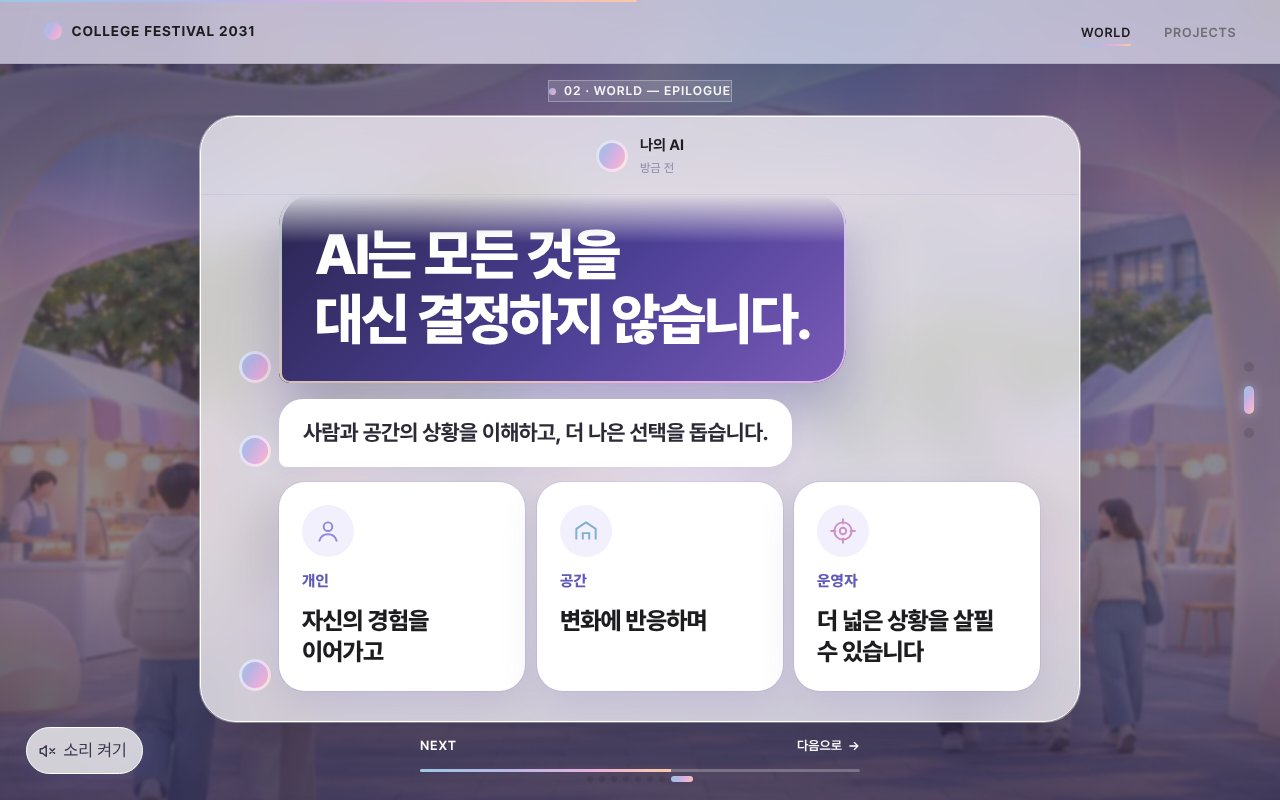
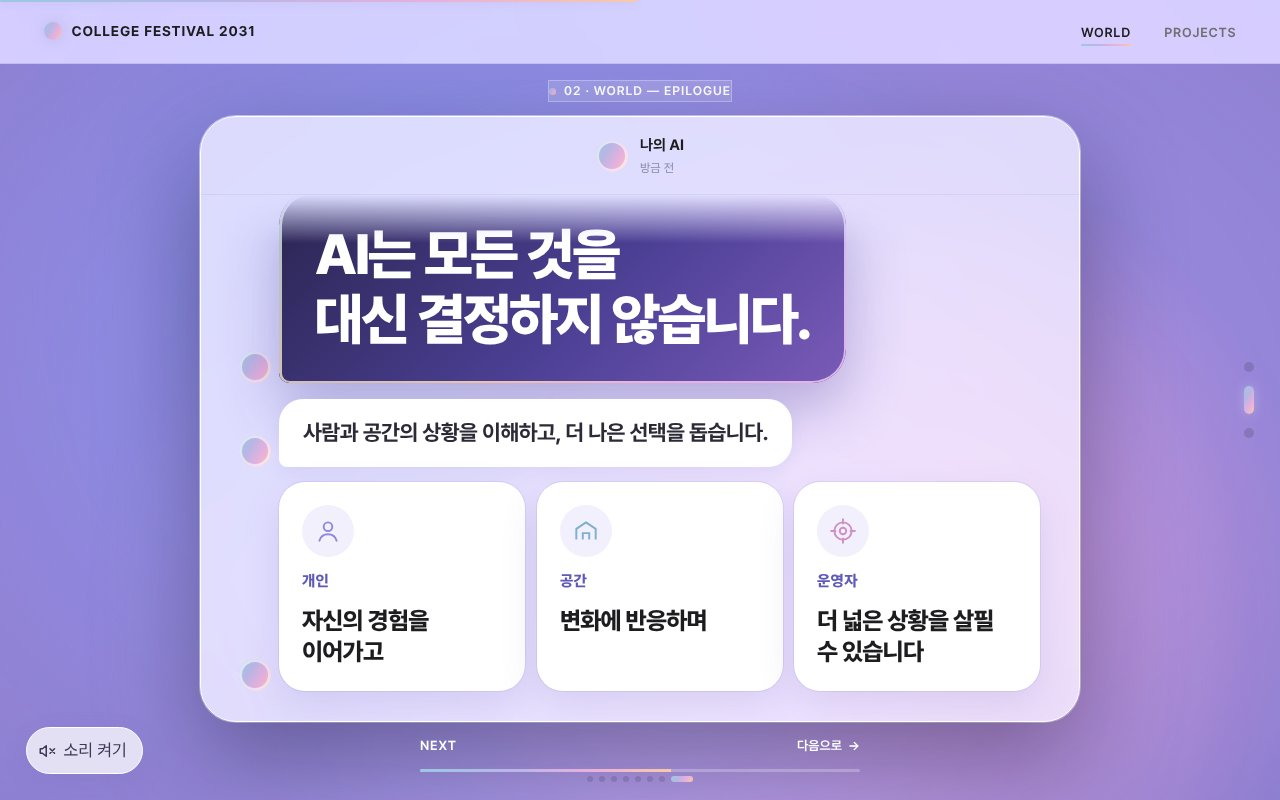
에필로그 배경을 이미지 대신 흐르는 파스텔 그라데이션으로 변경 (대화·선택에 따라 색 전환)
Claude-Session: https://claude.ai/code/session_01MVD1fmE3ZHHAawXfDg3rwx

diff --git a/assets/css/style.css b/assets/css/style.css
@@ -1037,16 +1037,21 @@ body:has(#detail.open) .snd-btn{opacity:0;pointer-events:none}
 @media (prefers-reduced-motion:reduce){.ec-wave.on i{animation:none}}
 
 /* ---- EPILOGUE v3: chat floats over the festival scene (continues from WORLD) ---- */
-#world-c .stage{background:#1a1730}
+#world-c .stage{background:#C9C3F2}
 .ec-bg{position:absolute;inset:0;z-index:0;overflow:hidden;pointer-events:none}
 .ec-bg .eb{position:absolute;inset:0;opacity:0;transition:opacity 1.4s var(--ease)}
 .ec-bg .eb.on{opacity:1}
-.ec-bg .eb .world-art{position:absolute;inset:0;width:100%;height:100%;object-fit:cover;transform-origin:var(--o);transform:scale(1.06);filter:blur(2.5px) saturate(1.08);
-  transition:transform 6s cubic-bezier(.2,.7,.2,1),filter 2s var(--ease)}
-.ec-bg .eb.on .world-art{transform:scale(var(--z))}
-.ec-bg .eb:nth-child(n+3).on .world-art{filter:blur(1px) saturate(1.12)}
+.ec-bg .eb{background:var(--bg)}
+.ec-bg .eb i{position:absolute;width:85vmax;height:85vmax;border-radius:50%;opacity:.95;will-change:transform}
+.ec-bg .eb i:nth-child(1){left:-30vmax;top:-35vmax;background:radial-gradient(circle,var(--c1) 0%,transparent 64%);animation:ebA 19s ease-in-out infinite alternate}
+.ec-bg .eb i:nth-child(2){right:-32vmax;top:-20vmax;background:radial-gradient(circle,var(--c2) 0%,transparent 64%);animation:ebB 23s ease-in-out infinite alternate}
+.ec-bg .eb i:nth-child(3){left:-6vmax;bottom:-50vmax;background:radial-gradient(circle,var(--c3) 0%,transparent 64%);animation:ebC 21s ease-in-out infinite alternate}
+@keyframes ebA{to{transform:translate(22vmax,18vmax) scale(1.15)}}
+@keyframes ebB{to{transform:translate(-20vmax,24vmax) scale(.9)}}
+@keyframes ebC{to{transform:translate(16vmax,-20vmax) scale(1.2)}}
+@media (prefers-reduced-motion:reduce){.ec-bg .eb i{animation:none}}
 .ec-bg::after{content:"";position:absolute;inset:0;pointer-events:none;
-  background:radial-gradient(70% 70% at 50% 55%,rgba(36,28,80,.12),rgba(26,20,60,.5) 100%),linear-gradient(180deg,rgba(26,20,60,.35),rgba(26,20,60,0) 28%,rgba(26,20,60,0) 72%,rgba(26,20,60,.4))}
+  background:radial-gradient(80% 80% at 50% 50%,rgba(255,255,255,0) 50%,rgba(40,30,90,.16) 100%)}
 #world-c .ec{z-index:2}
 #world-c #ecLabel{color:#fff;background:rgba(255,255,255,.14);border:1px solid rgba(255,255,255,.3);-webkit-backdrop-filter:blur(10px);backdrop-filter:blur(10px)}
 #world-c .ec-phone{background:rgba(255,255,255,.7);-webkit-backdrop-filter:blur(22px) saturate(1.3);backdrop-filter:blur(22px) saturate(1.3);box-shadow:0 40px 100px rgba(14,10,40,.4),0 0 0 1px rgba(255,255,255,.55)}

diff --git a/assets/js/main.js b/assets/js/main.js
@@ -144,9 +144,10 @@ h1.querySelectorAll('.ch').forEach(s=>s.setAttribute('aria-hidden','true'));
 $('#portalScene').innerHTML=WORLD_ART[0];
 $('#wcScene').innerHTML=WORLD_ART[5];
 // epilogue backdrop: continues from WORLD CH.04 → evening festival → the place the person picks
-const EC_BG=[[4,'50% 50%',1.04],[5,'50% 45%',1.06],[2,'38% 66%',1.32],[0,'50% 58%',1.42],[4,'62% 46%',1.26]];
-$('#ecBg').innerHTML=EC_BG.map(([a,o,z])=>`<div class="eb" style="--o:${o};--z:${z}">${WORLD_ART[a]}</div>`).join('');
-$$('#ecBg .world-art').forEach(im=>{im.alt=''});
+const EC_BG=[ // [base, blob1, blob2, blob3] — start → evening → the picked place (쉼터 · 무대 · 푸드 트럭)
+  ['#C9C3F2','#A9C9F0','#E9B8E0','#D9D4FF'],['#9C8FDB','#7E8BE0','#E59AC8','#F6BFA6'],
+  ['#BFD9E6','#A6DCCB','#C9C2FA','#EFE0FF'],['#8A78D8','#6F7FE6','#E688C7','#B8A0F5'],['#E9C2D6','#F5BE9E','#EC9FC4','#C8B6F4']];
+$('#ecBg').innerHTML=EC_BG.map(c=>`<div class="eb" style="--bg:${c[0]};--c1:${c[1]};--c2:${c[2]};--c3:${c[3]}"><i></i><i></i><i></i></div>`).join('');
 
 const intro={el:$('#intro'),p:0,t:0};
 const iTitle=$('#introTitle'),veil=$('#veil'),hint=$('#scrollHint'),introStage=$('#intro .stage');
@@ -239,7 +240,7 @@ function tickWorld(now){
   // full-bleed cinematic background: grows out of the front card, then wipes chapter to chapter
   {const r=waDeck.getBoundingClientRect(), gi=1-g, rad=30*gi;
    const ins=`inset(${(r.top*gi).toFixed(1)}px ${((VW-r.right)*gi).toFixed(1)}px ${((VH-r.bottom)*gi).toFixed(1)}px ${(r.left*gi).toFixed(1)}px round ${rad.toFixed(1)}px)`;
-   waBg.style.clipPath=g>=1?'none':ins; waBg.style.opacity=(g>0?1:0);
+   waBg.style.clipPath=g>=1?'none':ins; waBg.style.opacity=(g>0?1:0)*(1-ex);
    worldA.el.classList.toggle('wa-cine',g>.35);
    waBis.forEach((b,k)=>{const d=s-k;
      if(d<=-1||d>=1.6){b.style.visibility='hidden';return} b.style.visibility='visible';

diff --git a/README.md b/README.md
@@ -15,7 +15,7 @@ MCUAI가 축제 공간에서 상황을 감지하고, 판단하고, 대응하는 
 |---|---|---|
 | 01 | INTRO | 실시간 오로라 배경, 글자·배경 색 혼합 인터랙션, 구름을 뚫고 축제 공간으로 내려앉는 비행 전환 |
 | 02 | WORLD | 3D 카드 덱과 챕터 번호로 4개 챕터 전환 |
-| 02 | EPILOGUE | WORLD 마지막 장면에서 이어지는 축제 배경 위 AI 대화 (고른 장소로 배경 이동), 핵심 문장과 파동 |
+| 02 | EPILOGUE | 흐르는 파스텔 그라데이션 위 AI 대화 (대화 흐름·고른 장소에 따라 색이 바뀜), 핵심 문장과 파동 |
 | — | QUESTION | "하지만," 글리치 등장 → 어두운 3D 공간, 글래스모피즘·분산·왜곡 효과 |
 | 03 | PROJECTS | 캠퍼스 3D 지도를 1인칭으로 걸으며 제품 3개(KNOBLE → PATH GUARD → FLOWAY) 순서대로 방문. 걸을수록 해가 지고 무대 앞에 관객이 모임 |
 
